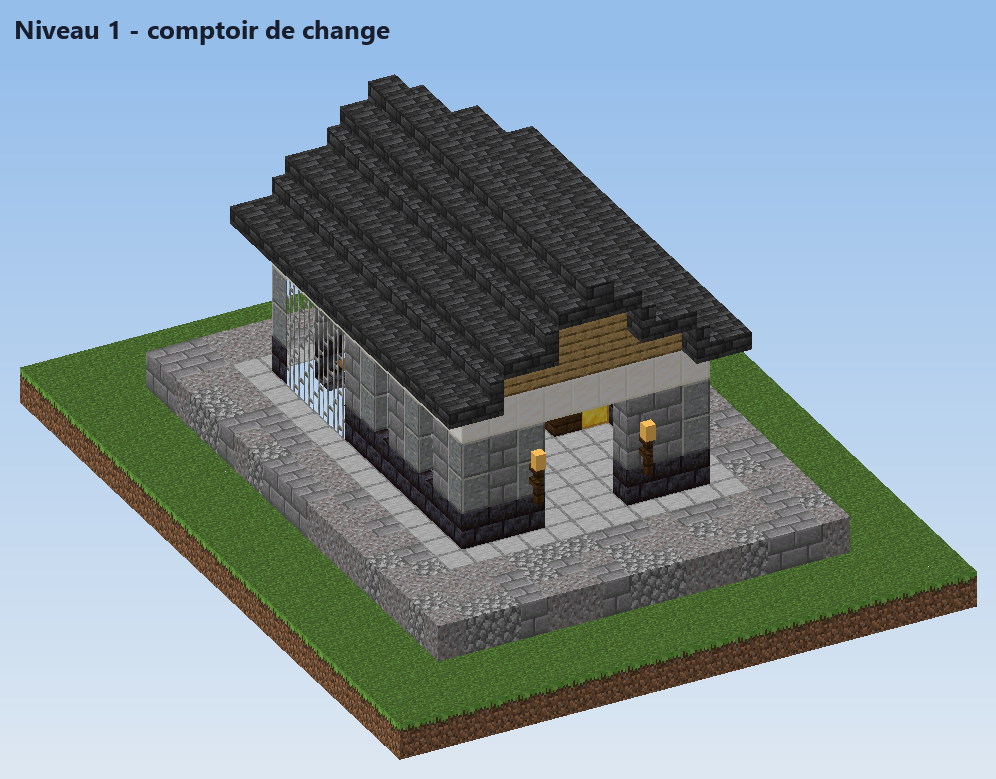
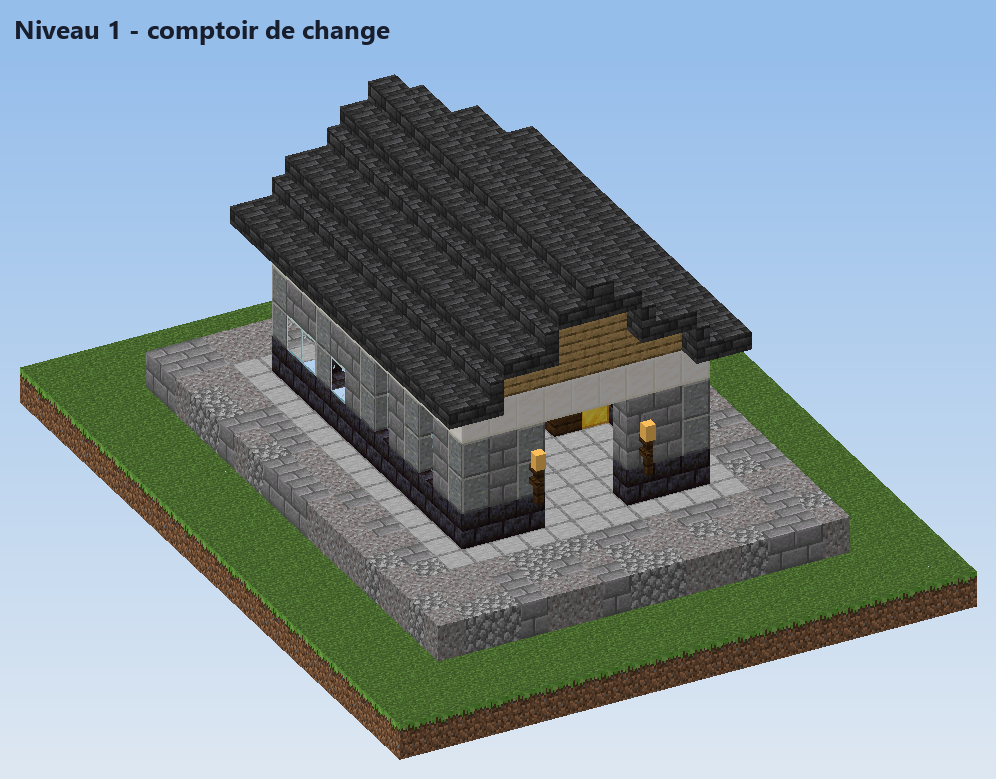
Banque régionale : vitres pleines et porte en cuivre à la place des barreaux et de la porte en fer
Les barreaux et la porte en fer s'incrustaient mal dans les murs, et la porte en fer ne s'ouvre pas à la main.

Changed region(s): [[0.2801, 0.3697, 0.3735, 0.5546]]

diff --git a/mod/tools/gen_bank_blueprints.py b/mod/tools/gen_bank_blueprints.py
@@ -7,7 +7,7 @@ Needs `pip install nbtlib`. The output is committed, so this is only needed to c
 The building is a bank with a vault room behind its counter hall, vanilla blocks only (the pack is shared by every style):
   1  counter house: a grille, a small vault of seven by four
   2  stone bank: pillared hall, a vault with pedestals for jewels
-  3  two storeys, gold sign, a vault wall of bars that shows its hoard from the street
+  3  two storeys, gold sign, a glass-arcade vault wall that shows its hoard from the street
   4  town-house bank: wings, balcony, a big two-row vault
   5  treasury fortress: towers, a gatehouse, a vault the size of a ballroom
 The vault room is left empty in the blueprint. Its slots (floor piles, gold bars, open chests, gem clusters, jewel
@@ -42,9 +42,9 @@ GOLD = M + 'gold_block'
 DARK = M + 'dark_oak_planks'
 FLOOR = M + 'smooth_stone'
 VAULT_FLOOR = M + 'polished_blackstone_bricks'
-BARS = M + 'iron_bars'
-R.CONNECT[BARS] = 'pane'
-R.SOLID.update({STONE, POLISHED, POLISHED_B, QUARTZ, PILLAR, GOLD, DARK, VAULT_FLOOR})
+GLASS = M + 'glass'
+VAULT_DOOR = M + 'waxed_copper_door'
+R.SOLID.update({STONE, POLISHED, POLISHED_B, QUARTZ, PILLAR, GOLD, DARK, VAULT_FLOOR, GLASS})
 
 
 class BankGrid(R.Grid):
@@ -52,12 +52,10 @@ class BankGrid(R.Grid):
         super().__init__()
         self.slots = []
 
-    def bars(self, x, y, z):
-        self.put(x, y, z, BARS, north='false', south='false', east='false', west='false', waterlogged='false')
-
-    def iron_door(self, x, z, facing):
-        self.put(x, 1, z, M + 'iron_door', facing=facing, half='lower', hinge='left', open='false', powered='false')
-        self.put(x, 2, z, M + 'iron_door', facing=facing, half='upper', hinge='left', open='false', powered='false')
+    def vault_door(self, x, z, facing):
+        # copper, not iron: an iron door cannot be opened by hand, and its thin leaf looks stuck on in a wall of bars
+        self.put(x, 1, z, VAULT_DOOR, facing=facing, half='lower', hinge='left', open='false', powered='false')
+        self.put(x, 2, z, VAULT_DOOR, facing=facing, half='upper', hinge='left', open='false', powered='false')
 
     def slot(self, x, y, z, kind, facing='north'):
         self.slots.append({'x': x, 'y': y, 'z': z, 'kind': kind, 'facing': facing})
@@ -122,19 +120,24 @@ def bank(g, p):
         g.fill(x, x, 1, top, z, z, POLISHED)
     g.ring(x0, x1, z0, z1, top, top, QUARTZ)
     g.ring(x0, x1, z0, z1, 1, 1, POLISHED_B)
-    # the vault: bars on the east side (seen from the street) and on the divider, solid elsewhere
+    # the vault: a solid stone room. The street side (east) is an arcade of full glass blocks between the wall pillars, so the
+    # hoard shows from outside without any thin bars; the front wall has two glass teller windows and a copper door
     for z in range(zd + 1, z1):
-        for y in range(1, top):
-            g.bars(x1, y, z)
+        if z not in range(z0, z1 + 1, 3):
+            for y in range(2, max(3, top - 1)):
+                g.put(x1, y, z, GLASS)
     for x in range(x0 + 1, x1):
-        for y in range(2, top):
-            if x != 0:
-                g.bars(x, y, zd)
-            else:
-                g.carve(x, x, 2, top - 1, zd, zd)
+        for y in range(1, top):
+            g.put(x, y, zd, STONE if y > 1 else POLISHED_B)
+    for x in (-3, -2, 2, 3):
+        if x0 + 1 < x < x1 - 1:
+            for y in (2, 3):
+                g.put(x, y, zd, GLASS)
+    for x in (-1, 1):
+        g.fill(x, x, 1, top - 1, zd, zd, PILLAR, axis='y')
     g.carve(0, 0, 1, 3, zd, zd)
-    g.iron_door(0, zd, 'north')
-    g.put(0, 3, zd, M + 'iron_bars', north='false', south='false', east='false', west='false', waterlogged='false')
+    g.vault_door(0, zd, 'north')
+    g.put(0, 3, zd, GOLD)
     # windows of the hall
     for z in range(z0 + 2, zd - 1, 3):
         for x in (x0, x1):
@@ -148,11 +151,11 @@ def bank(g, p):
     for x in (-2, 2):
         g.lantern(x, 3, z0 - 1, hanging=False)
         g.put(x, 2, z0 - 1, M + 'dark_oak_fence', north='false', south='false', east='false', west='false', waterlogged='false')
-    # the counter, with a grille and a gold edge
+    # the counter, with a glass teller screen and a gold edge
     for x in range(x0 + 2, x1 - 1):
         if abs(x) > 1:
             g.put(x, 1, zd - 2, M + 'dark_oak_planks')
-            g.put(x, 2, zd - 2, BARS, north='false', south='false', east='false', west='false', waterlogged='false')
+            g.pane(x, 2, zd - 2)
     g.put(x1 - 1, 1, zd - 2, GOLD)
     g.put(x0 + 1, 1, zd - 2, GOLD)
     g.put(0, 1, 0, 'interregne:banque_regionale', facing='north')
